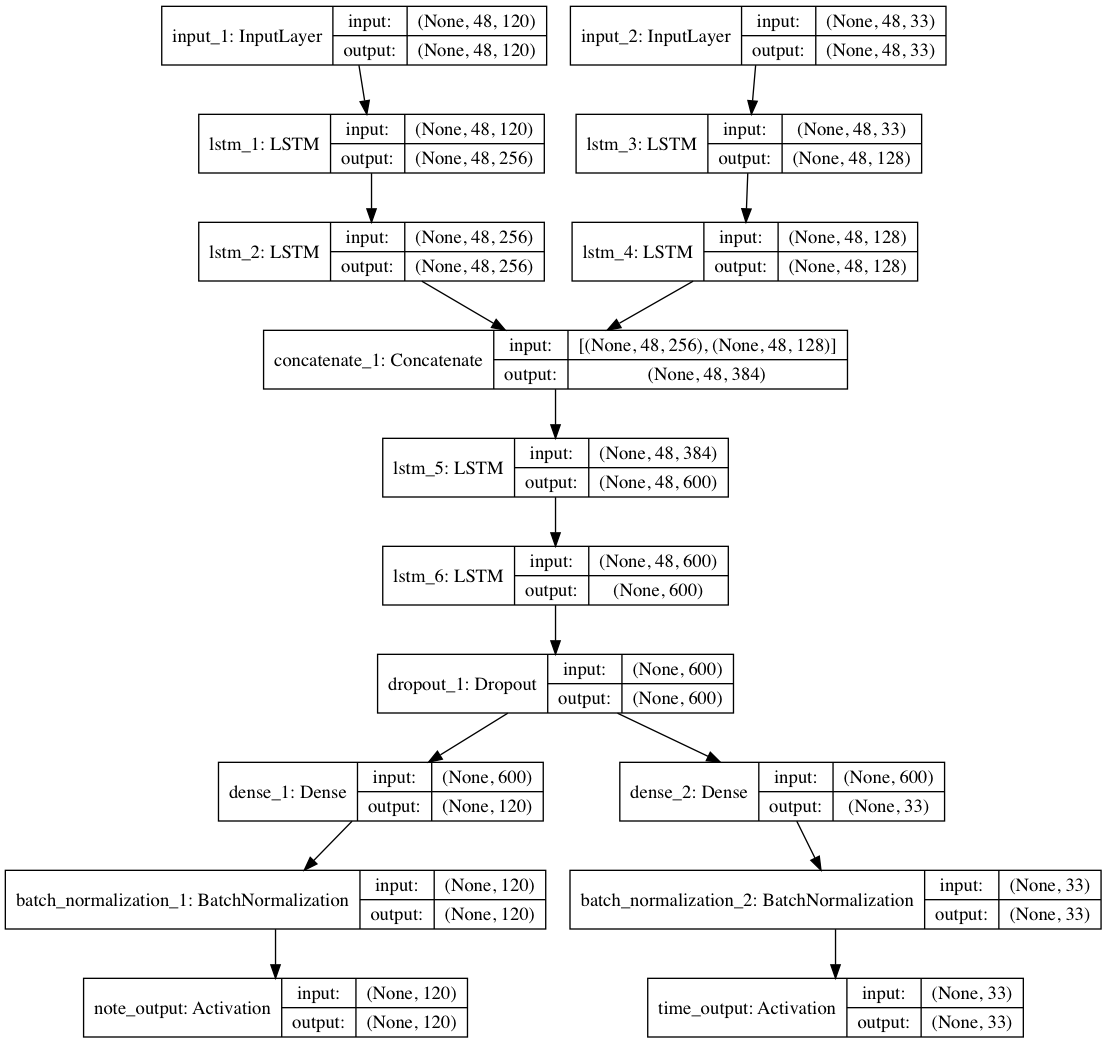
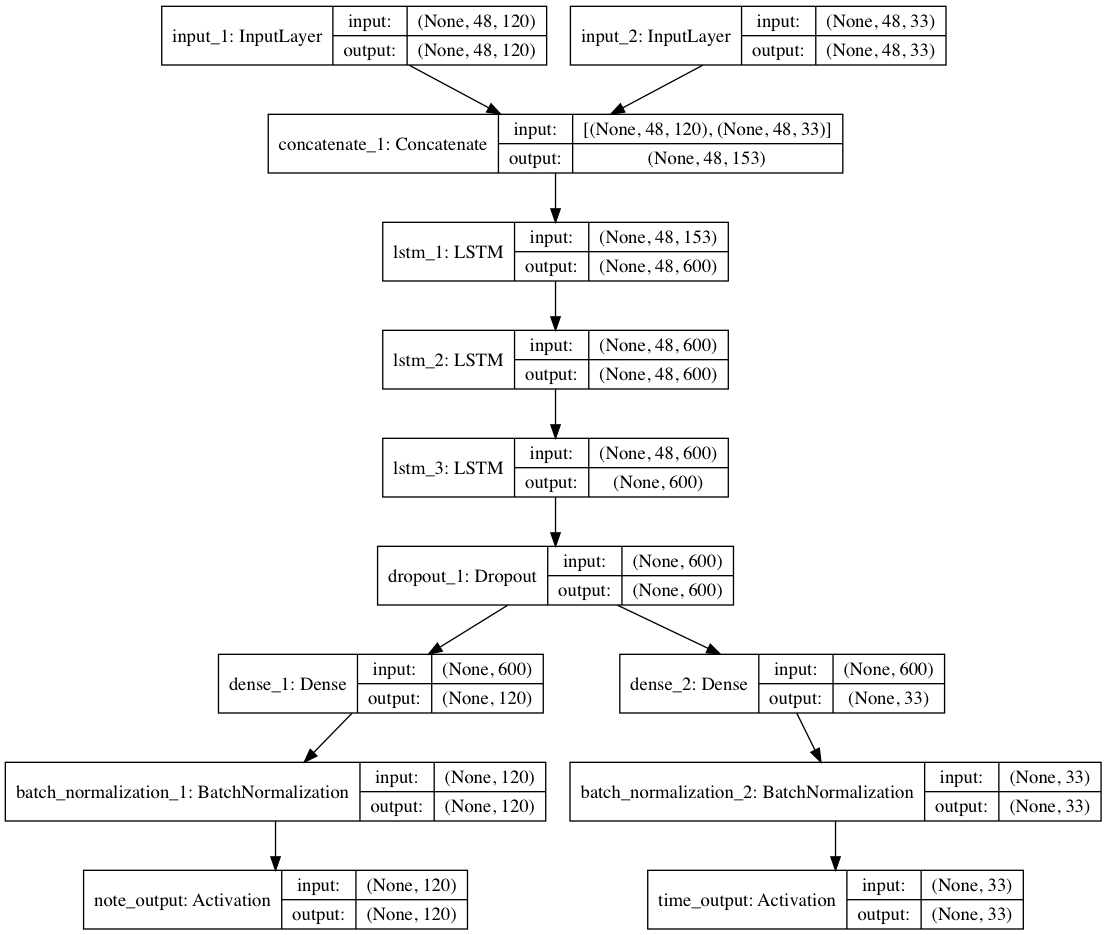
foo

Changed region(s): [[0.0, 0.0, 1.0, 1.0]]

diff --git a/multiple_instruments/train.py b/multiple_instruments/train.py
@@ -123,6 +123,7 @@ def main():
 
     codec = concatenate([noteInput, deltaInput], axis=-1) ## return last state
     codec = LSTM(600, return_sequences=True, dropout=drop_rate, activation='tanh', trainable=train_lstm)(codec)
+    codec = LSTM(600, return_sequences=True, dropout=drop_rate, activation='tanh', trainable=train_lstm)(codec)
     codec = LSTM(600, return_sequences=False, dropout=drop_rate, activation='tanh', trainable=train_lstm)(codec)
     encoded = Dropout(drop_rate)(codec)
 

diff --git a/multiple_instruments/load.py b/multiple_instruments/load.py
@@ -46,6 +46,7 @@ with tf.device('/gpu:1'):
 with tf.device('/gpu:3'):
     codec = concatenate([noteInput, deltaInput], axis=-1)
     codec = LSTM(600, return_sequences=True, dropout=drop_rate, activation='tanh')(codec)
+    codec = LSTM(600, return_sequences=True, dropout=drop_rate, activation='tanh')(codec)
     codec = LSTM(600, return_sequences=False, dropout=drop_rate, activation='tanh')(codec)
     encoded = Dropout(drop_rate)(codec)
 

diff --git a/multiple_instruments/summary.py b/multiple_instruments/summary.py
@@ -46,6 +46,7 @@ with tf.device('/gpu:1'):
 with tf.device('/gpu:3'):
     codec = concatenate([noteInput, deltaInput], axis=-1)
     codec = LSTM(600, return_sequences=True, dropout=drop_rate, activation='tanh')(codec)
+    codec = LSTM(600, return_sequences=True, dropout=drop_rate, activation='tanh')(codec)
     codec = LSTM(600, return_sequences=False, dropout=drop_rate, activation='tanh')(codec)
     encoded = Dropout(drop_rate)(codec)
 
